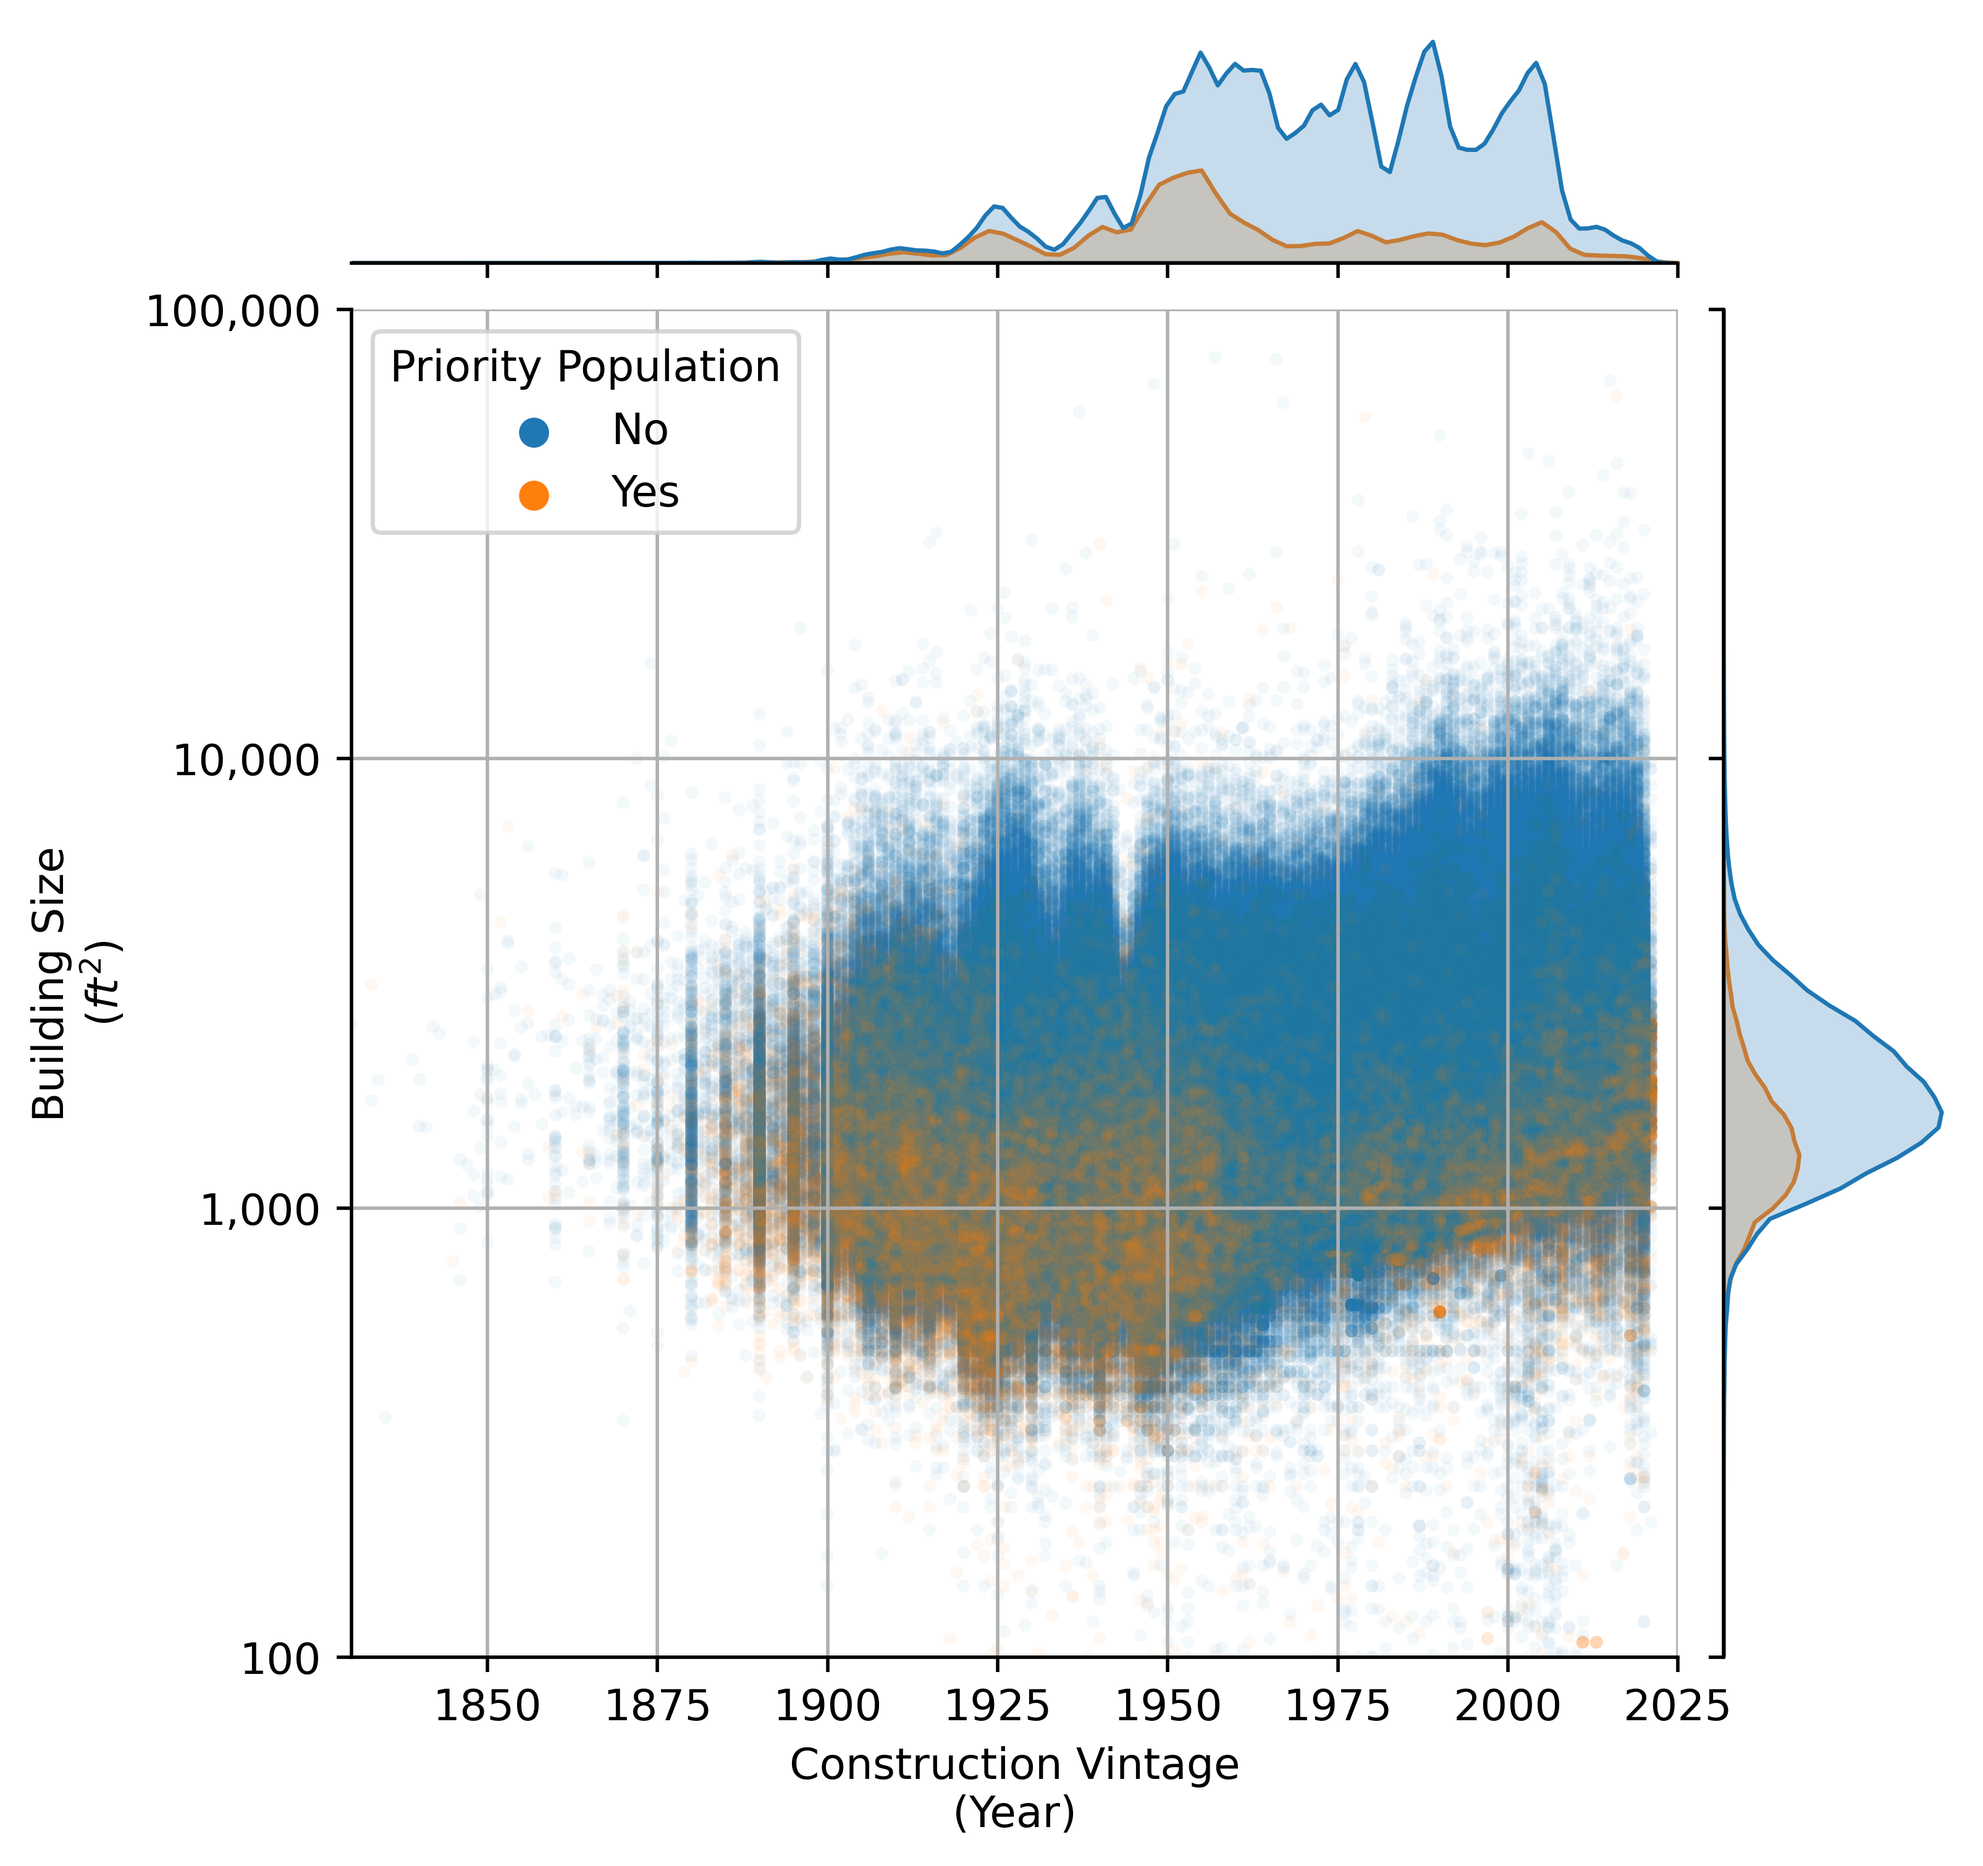
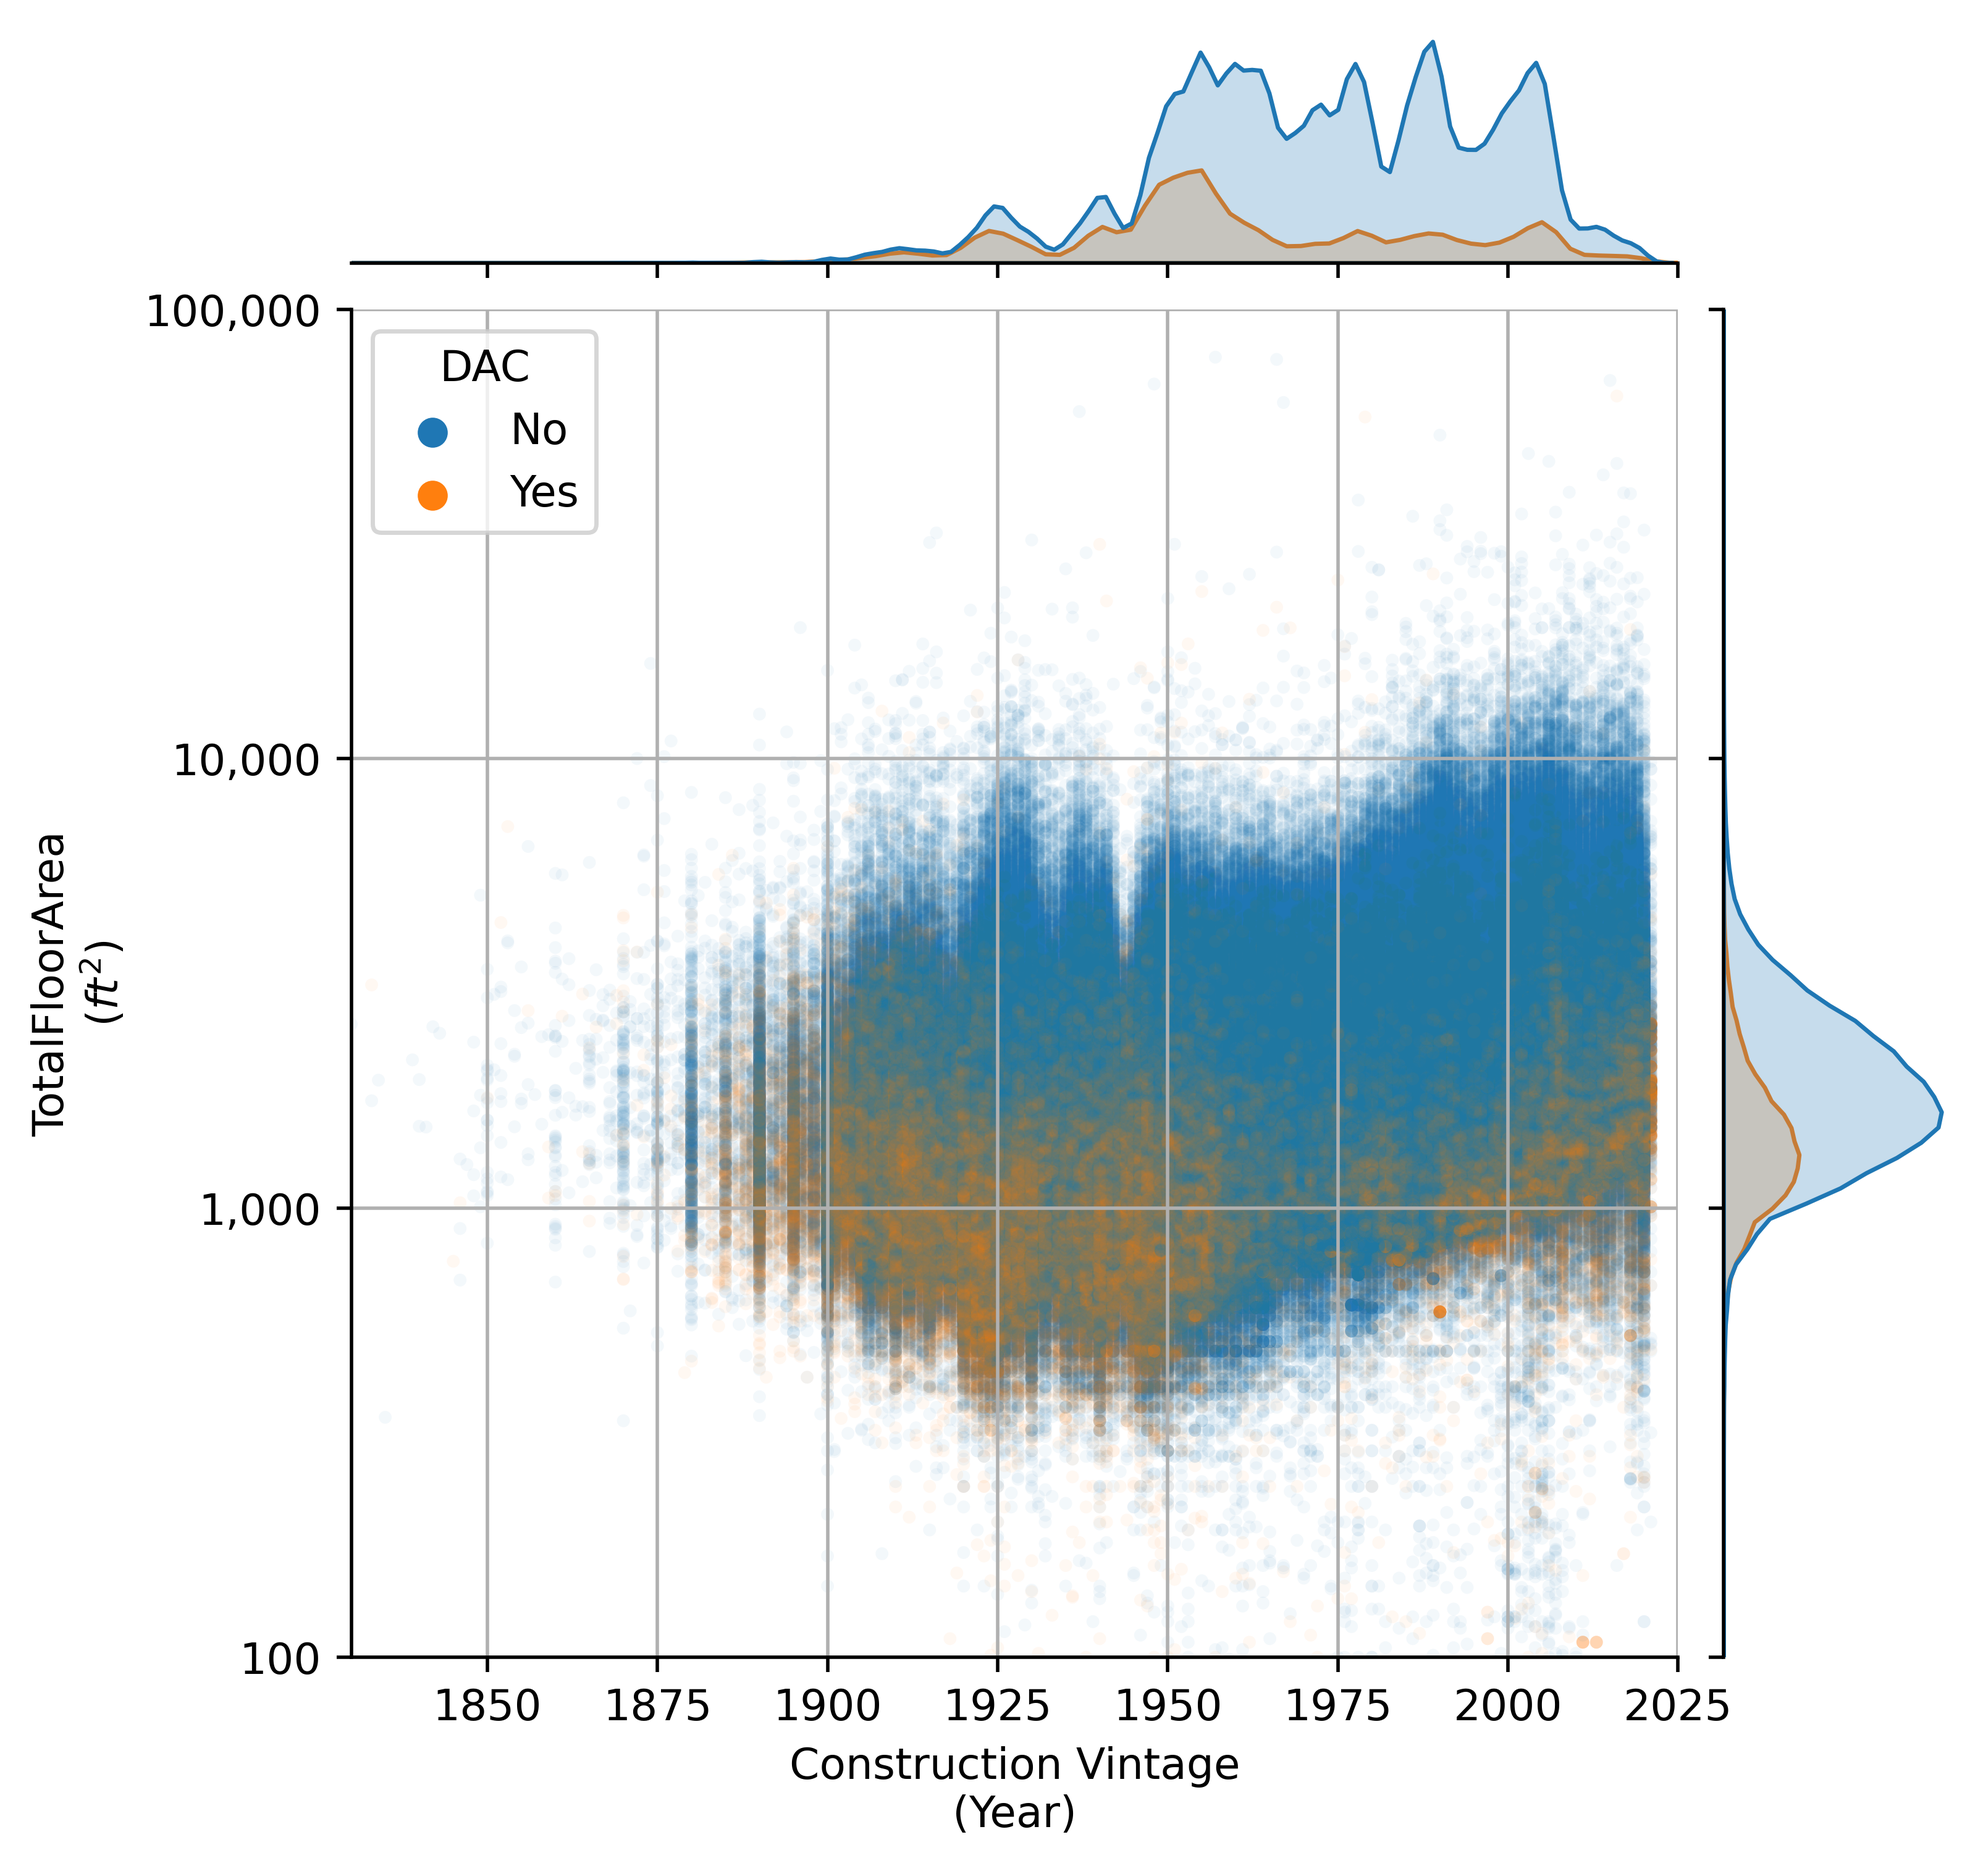
Add housing stats table routines

Changed region(s): [[0.4984, 0.5601, 0.7788, 0.6845], [0.1869, 0.1867, 0.405, 0.28], [0.0, 0.4356, 0.0312, 0.6223]]

diff --git a/analyses/model_data/model_data_analysis.py b/analyses/model_data/model_data_analysis.py
@@ -50,8 +50,6 @@ sf = pd.read_sql(query, db_con)
 # Set megaparcelid as index
 sf.set_index('megaparcelid', drop = True, inplace = True)
 
-sf['priority_populatio']
-
 #%% Extract Multi-Family Model Data
 
 query = ''' SELECT  A.*,
@@ -95,9 +93,47 @@ county_air_basin_districts = gpd.read_postgis(query, db_con, geom_col = 'geom')
 query = '''SELECT * FROM census.acs_ca_2019_tr_geom;'''
 tracts = gpd.read_postgis(query, db_con, geom_col = 'geometry')
 
-#%% Generate Statistic Table
+#%% Generate Housing Statistics Table
 
-def PrintStatsTable(mp, sector):
+def PrintHousingStatsTable(mp, sector):
+
+    if sector == 'single_family':
+        size_bins = [0, 1000, 2000, 3000, 4000, 5000, 8000, 10000, 20000, 1000000]
+        year_bins = [0, 1950, 1978, 2010, 2023]
+        data = mp.loc[:,['YearBuilt','TotalBuildingAreaSqFt']]
+        data['size_bin'] = pd.cut(mp['TotalBuildingAreaSqFt'],
+            bins = size_bins,
+            ordered = True)
+        data['year_bin'] = pd.cut(mp['YearBuilt'],
+            bins = year_bins,
+            ordered = True)
+        stats = data.groupby(['year_bin', 'size_bin'],
+            observed = True)['YearBuilt'].agg('count').unstack(level = 0)
+    elif sector == 'multi-family':
+        year_bins = [0, 1950, 1978, 2010, 2023]
+        units_bins = [0, 10, 25, 50, 100, 250, 500, 1000, 10000]
+        data = mp.loc[:,['YearBuilt','TotalNoOfUnits']]
+        data['year_bin'] = pd.cut(mp['YearBuilt'],
+            bins = year_bins,
+            ordered = True)
+        data['units_bin'] = pd.cut(mp['TotalNoOfUnits'],
+            bins = units_bins,
+            ordered = True)
+        stats = data.groupby(['year_bin', 'units_bin'],
+            observed = True)['YearBuilt'].agg('count').unstack(level = 0)
+
+    print(stats)
+
+    return stats
+
+#%% Generate Housing Statistics Tables
+
+PrintHousingStatsTable(sf, 'single_family')
+PrintHousingStatsTable(mf, 'multi_family')
+
+#%% Generate Panel Statistics Table
+
+def PrintPanelStatsTable(mp, sector):
 
     if sector == 'single_family':
         bins = [0, 99, 100, 101, 199, 200, 201, 2000]
@@ -120,7 +156,7 @@ def PrintStatsTable(mp, sector):
 
     return stats
 
-#%% Print Stats Table
+#%% Print Panel Statistics Tables
 
 # LBNL Results for Comparison
 # Panel Amps	Count	Frequency
@@ -130,12 +166,12 @@ def PrintStatsTable(mp, sector):
 # 200	        19,109	33%
 # >200	        5,915	10%
 
-sf_stats = PrintStatsTable(sf, 'single_family')
-mf_stats = PrintStatsTable(mf, 'multi_family')
+sf_stats = PrintPanelStatsTable(sf, 'single_family')
+mf_stats = PrintPanelStatsTable(mf, 'multi_family')
 
-#%% Generate Statistic Table
+#%% Generate DAC Panel Statistics Table
 
-def PrintDACStatsTable(mp, sector):
+def PrintDACPanelStatsTable(mp, sector):
 
     if sector == 'single_family':
         bins = [0, 99, 100, 101, 199, 200, 201, 2000]
@@ -158,10 +194,10 @@ def PrintDACStatsTable(mp, sector):
 
     return stats
 
-#%% Print DAC Stats Table
+#%% Print DAC Panel Statistics Tables
 
-sf_stats = PrintDACStatsTable(sf, 'single_family')
-mf_stats = PrintDACStatsTable(mf, 'multi_family')
+sf_stats = PrintDACPanelStatsTable(sf, 'single_family')
+mf_stats = PrintDACPanelStatsTable(mf, 'multi_family')
 
 #%% Plot SF as built panel size ratings
 
@@ -248,7 +284,7 @@ AsBuiltPanelRatingsHist(mf, 'multi_family', figure_dir)
 def AsBuiltPanelRatingsBar(mp, sector, figure_dir):
     '''Simple barplot of as-built panel ratings separated by DAC status'''
 
-    # Compute counts
+    # Compute counts by sector
 
     if sector == 'single_family':
         counts = mp.groupby(['dac', 'panel_size_as_built'])['panel_size_as_built'].agg('count')
@@ -257,7 +293,6 @@ def AsBuiltPanelRatingsBar(mp, sector, figure_dir):
         ylabel = 'As-Built Panel Rating \n[Amps]'
         xlabel = 'Number of Properties'
     elif sector == 'multi_family':
-        # NOTE: Units field missing in current MP structure
         counts = mp.groupby(['dac', 'panel_size_as_built'])['TotalNoOfUnits'].agg('sum')
         counts = counts.unstack(level= 0)
         counts.index = counts.index.astype(int)
@@ -328,8 +363,6 @@ PermitCountsBar(sf, 'single_family', figure_dir)
 PermitCountsBar(mf, 'multi_family', figure_dir)
 
 #%% Plot Existing panel size ratings
-
-# TODO: There is an issue with the MF side of this here below...
 
 def ExistingPanelRatingsHist(mp, sector, figure_dir):
     '''Function to plot a set of 2d histograms relating the frequency of
@@ -427,12 +460,12 @@ def JointDistributionPlot(mp, sector, figure_dir):
             marker = '.',
             linewidth = 0
             )
-        plt.legend(title = 'Priority Population', loc='upper left')
+        plt.legend(title = 'DAC', loc='upper left')
         plt.xlim([1830, 2025])
         plt.ylim([2.0, 5.0])
         plt.yticks([2,3,4,5])
         fig.ax_joint.set_yticklabels(['100', '1,000', '10,000', '100,000'])
-        fig.ax_joint.set_ylabel('Building Size\n($ft^2$)')
+        fig.ax_joint.set_ylabel('Total Floor Area\n($ft^2$)')
         fig.ax_joint.set_xlabel('Construction Vintage\n(Year)')
         plt.grid()
 
@@ -448,12 +481,12 @@ def JointDistributionPlot(mp, sector, figure_dir):
             marker = '.',
             linewidth = 0
             )
-        plt.legend(title = 'Priority Population', loc='upper left')
+        plt.legend(title = 'DAC', loc='upper left')
         plt.xlim([1860, 2025])
         plt.ylim([2.0, 6.0])
         plt.yticks([2,3,4,5,6])
         fig.ax_joint.set_yticklabels(['100', '1,000', '10,000', '100,000','1,000,000'])
-        fig.ax_joint.set_ylabel('Building Size\n($ft^2$)')
+        fig.ax_joint.set_ylabel('Total Floor Area\n($ft^2$)')
         fig.ax_joint.set_xlabel('Construction Vintage\n(Year)')
         plt.grid()
 
@@ -463,8 +496,8 @@ def JointDistributionPlot(mp, sector, figure_dir):
 
 #%% Plot Home Size Vintage Jointplot
 
-# CAUTION - Long run-time...
-JointDistributionPlot(sf, sector, figure_dir)
+JointDistributionPlot(sf, 'single_family', figure_dir)
+JointDistributionPlot(mf, 'multi_family', figure_dir)
 
 #%% Plot Existing Panel Stats
 
